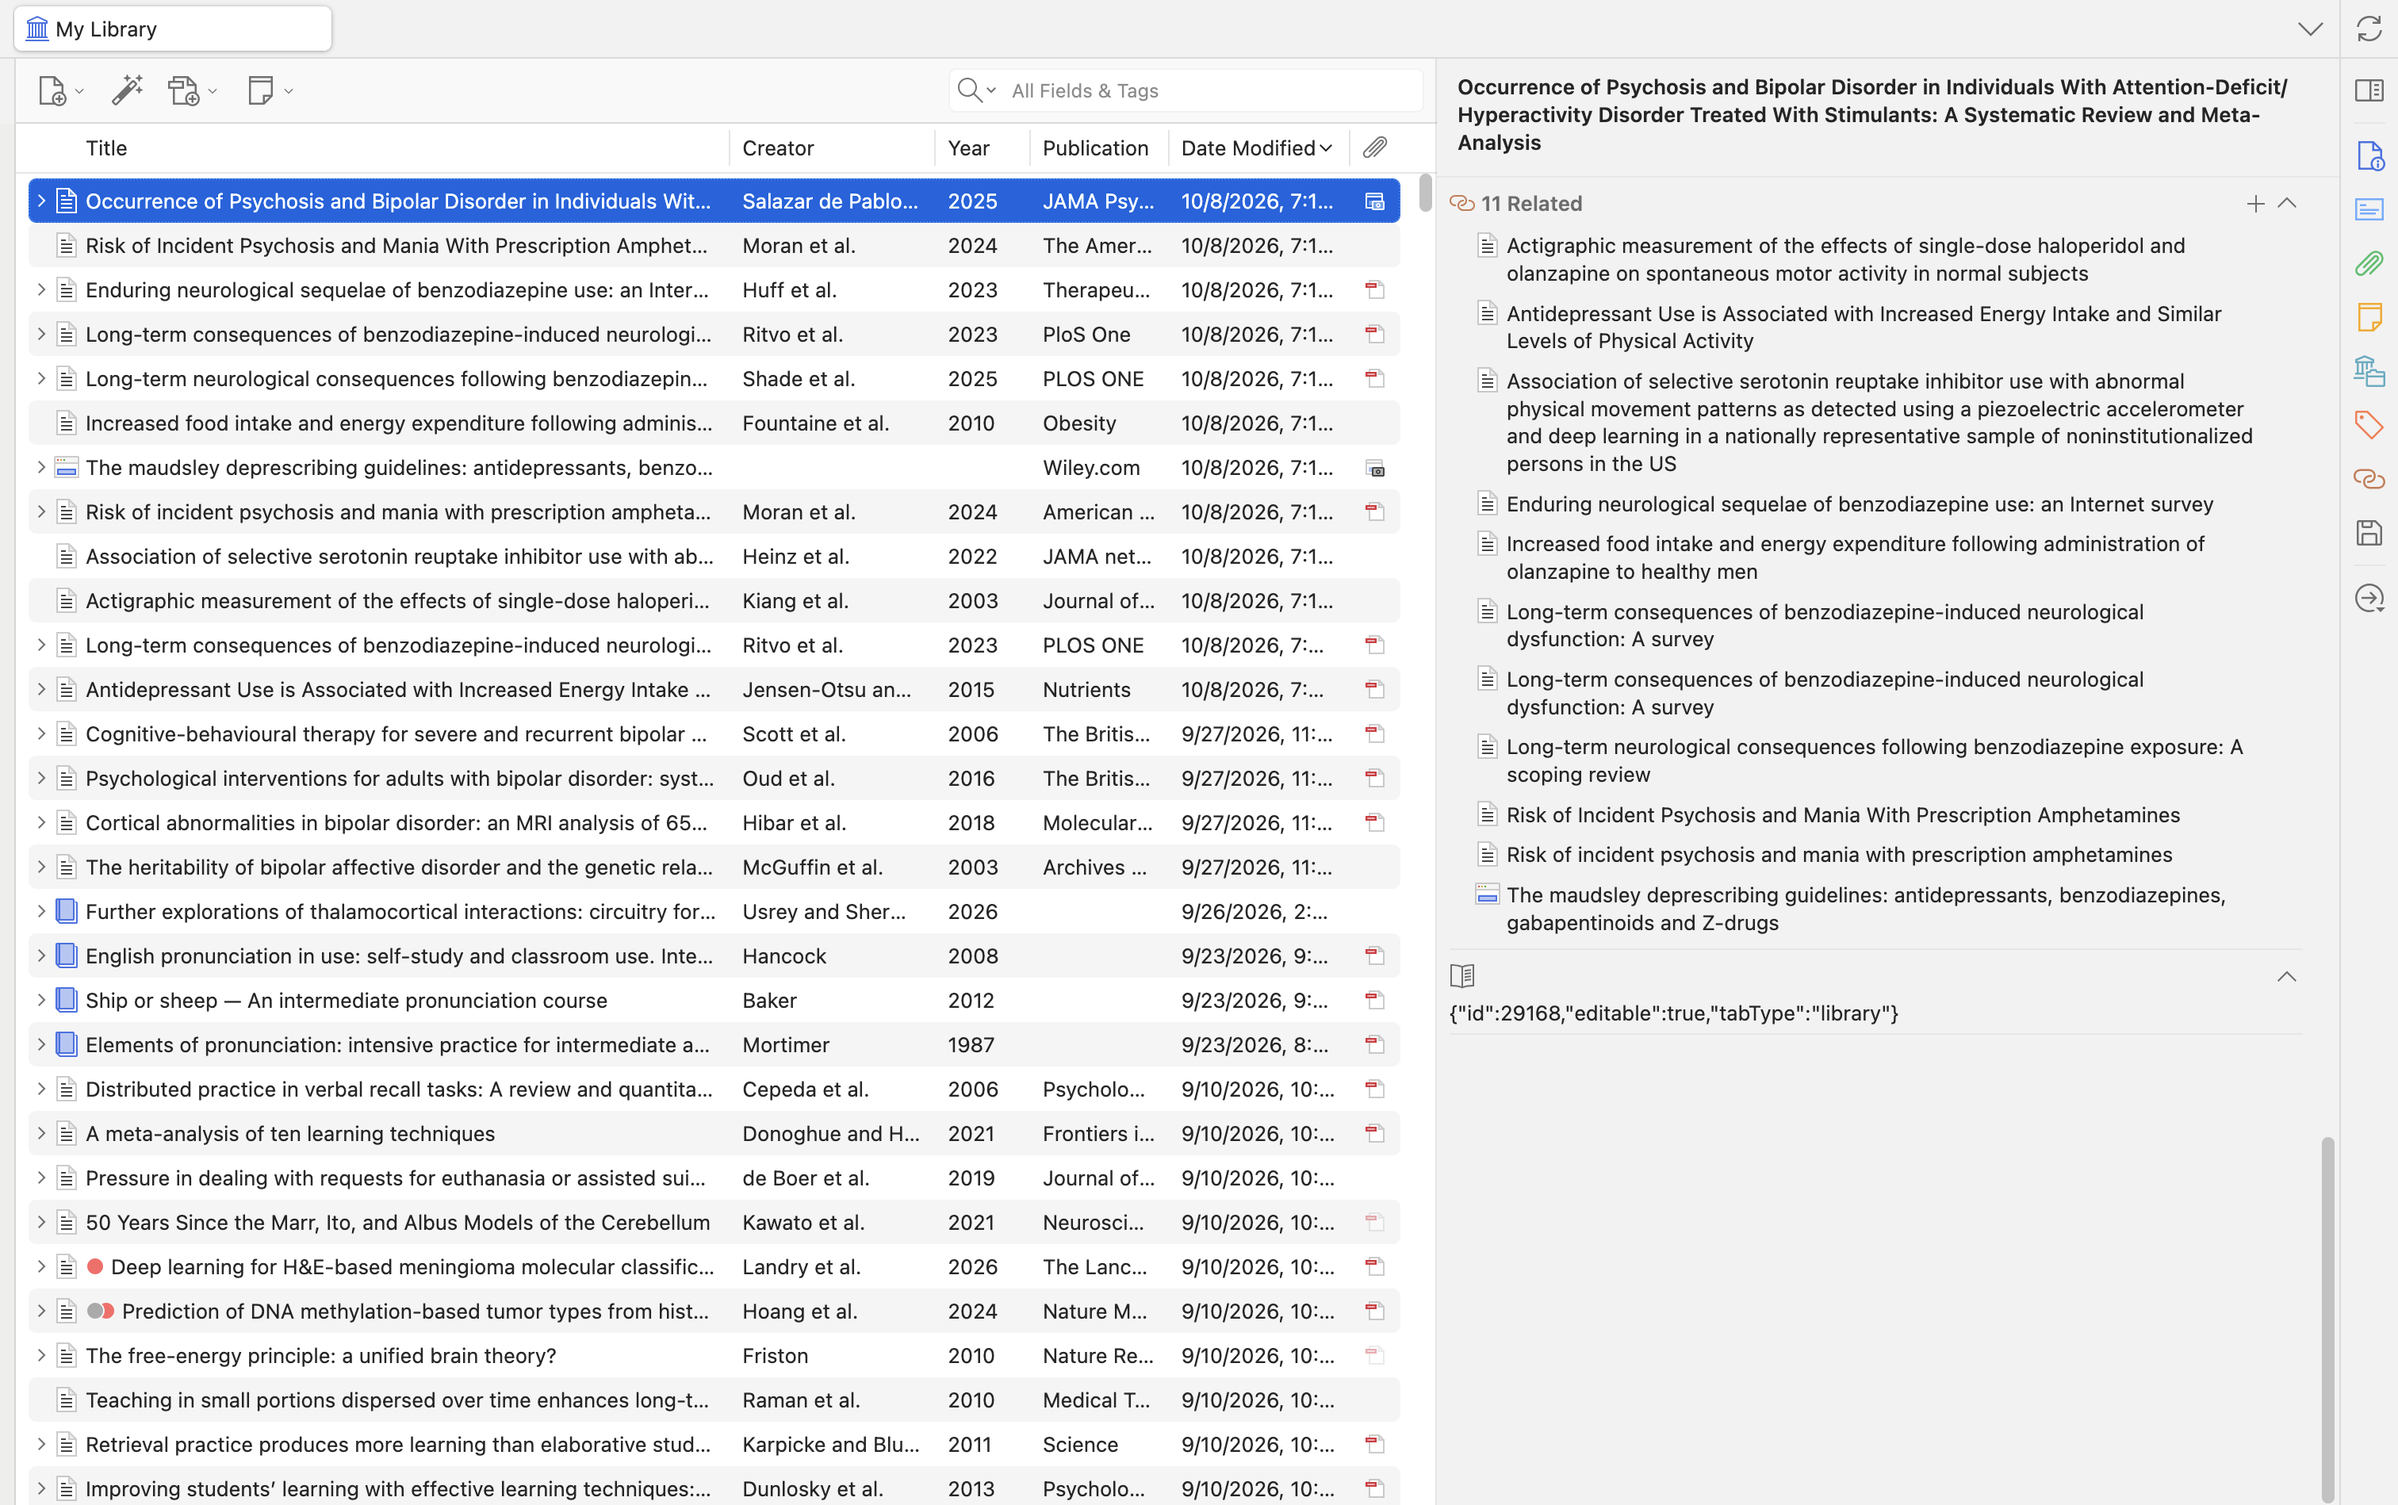
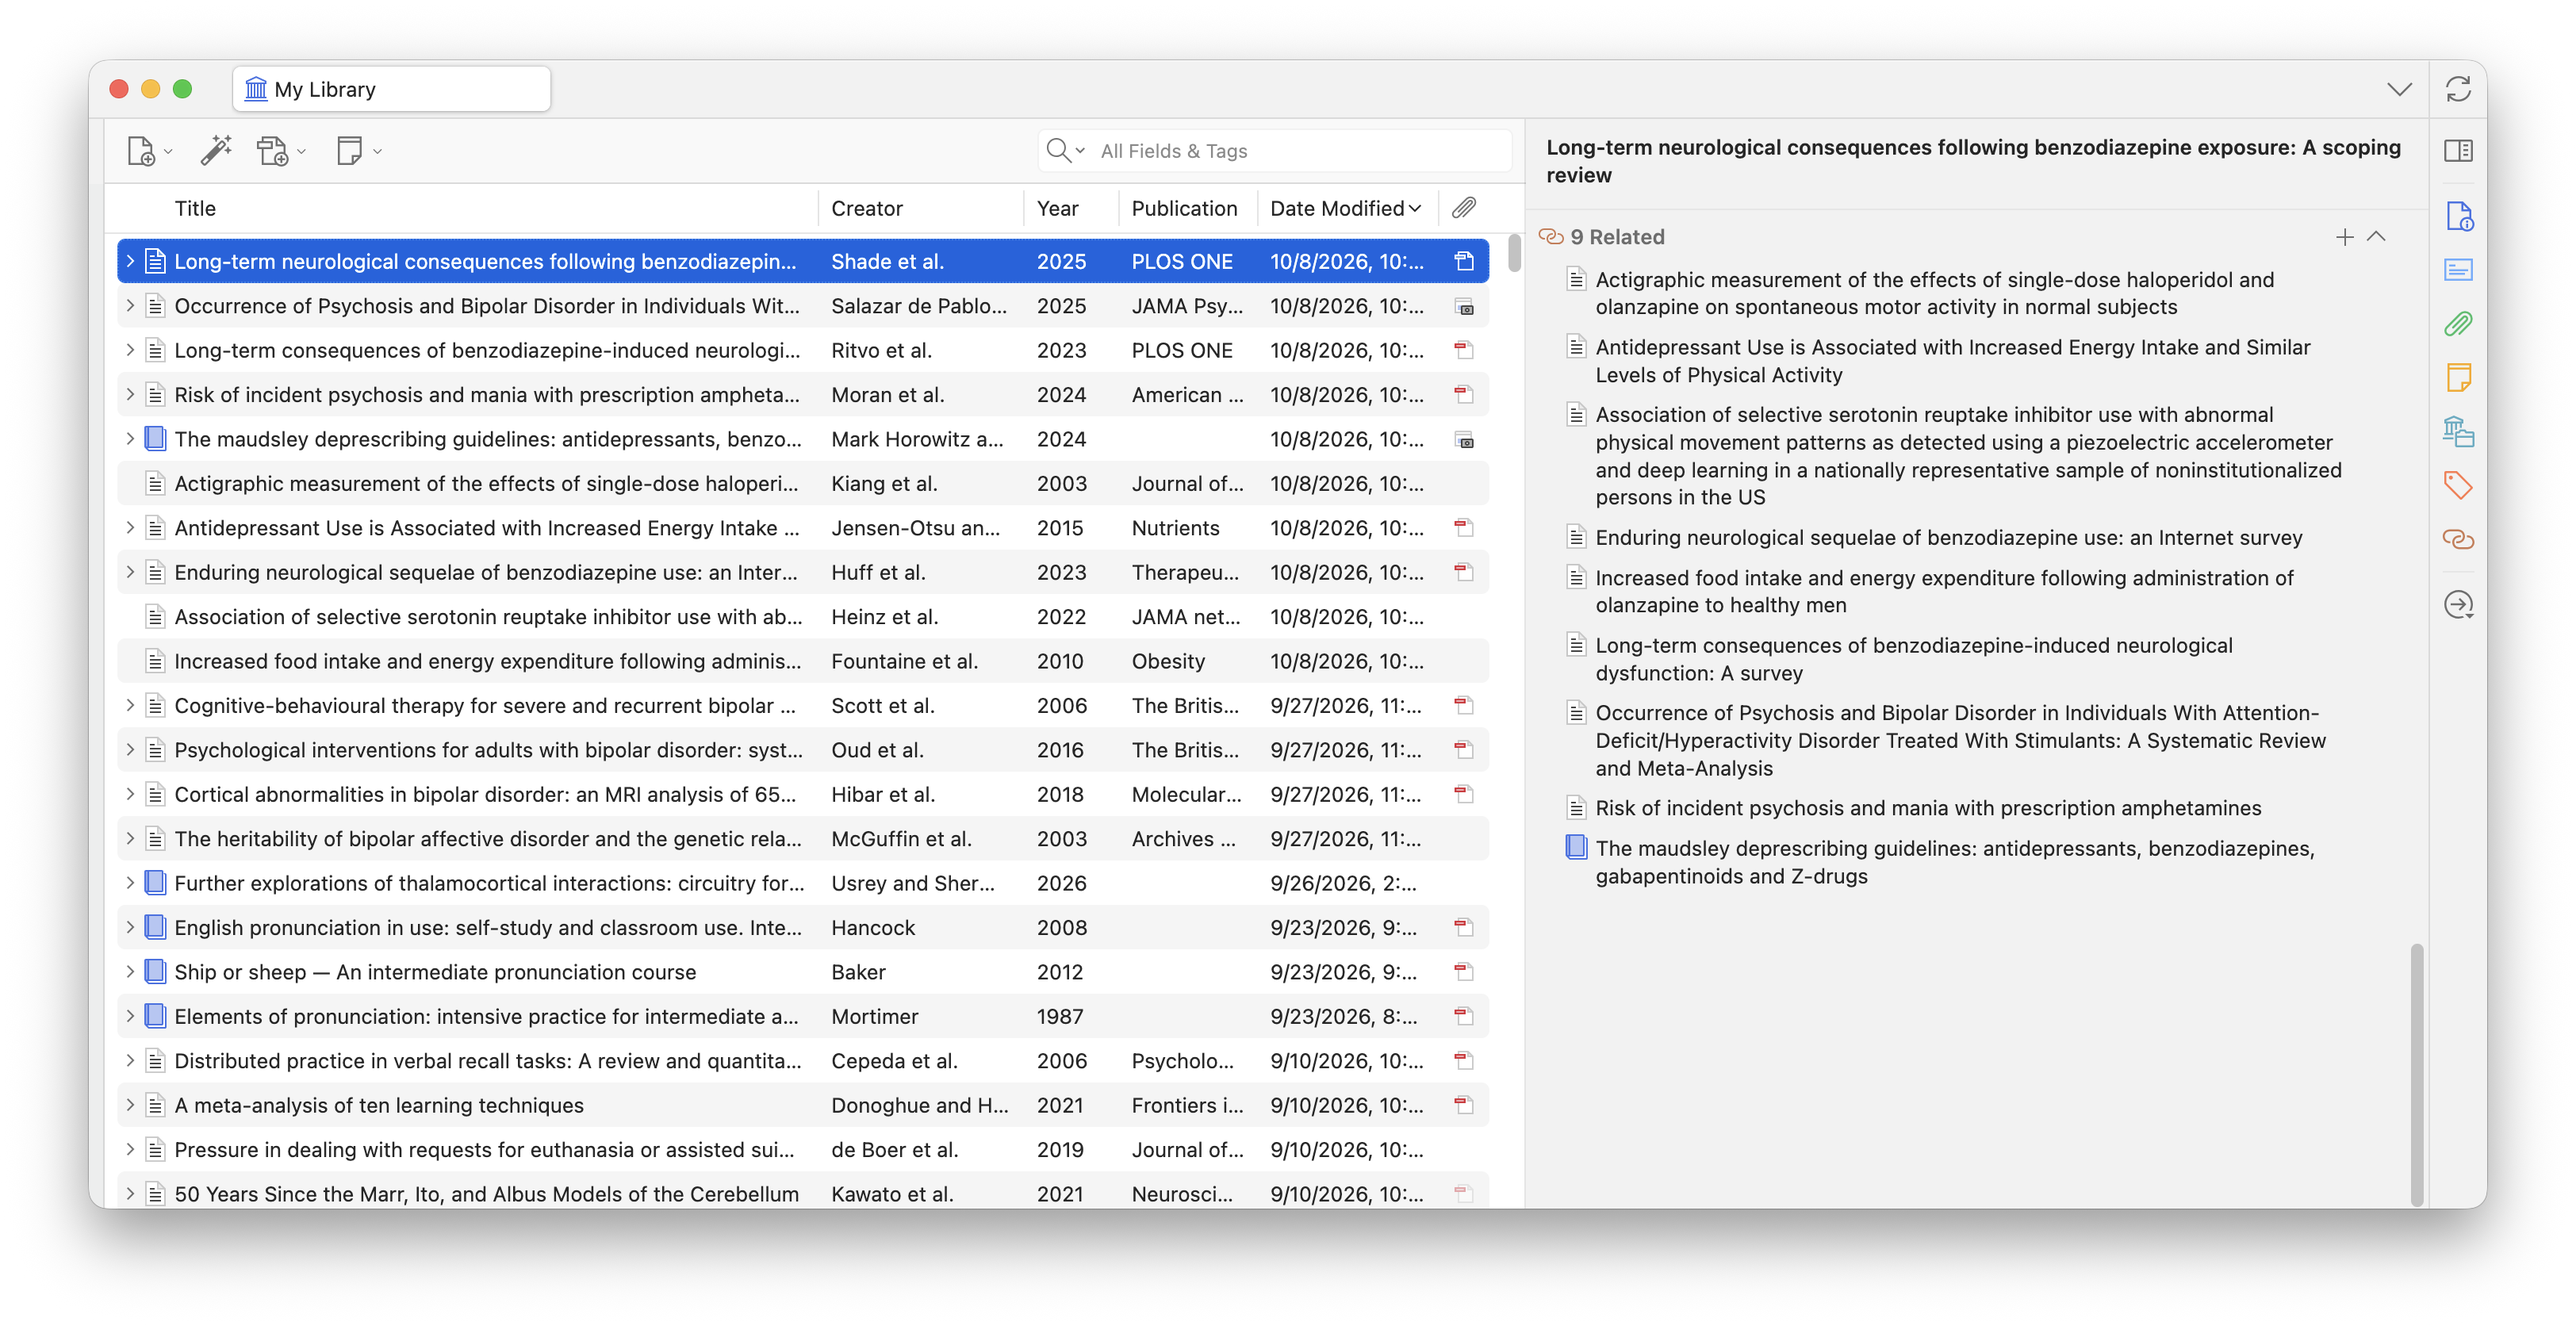
update images

Changed region(s): [[0.0, 0.0, 0.9947, 1.0], [0.4352, 0.0311, 0.4663, 0.0622]]

diff --git a/README.md b/README.md
@@ -4,40 +4,46 @@
 [![Zotero 7 / 8 / 9 Ready](https://img.shields.io/badge/Zotero-7%20%7C%208%20%7C%209-green.svg)](https://www.zotero.org/)
 [![License: AGPL-3.0](https://img.shields.io/badge/License-AGPL%203.0-blue.svg)](LICENSE)
 
-A lightweight Zotero plugin that cross-relates all selected items to each other in one click.
+A lightweight Zotero plugin that allows you to cross-relate or unrelate all selected items in one click.
 
 ---
 
 ## 📸 Overview
 
-
-![Demo Screenshot1](assets/right_click.png) 
-![Demo Screenshot2](assets/related.png) 
-
+<p align="center">
+  <img src="assets/right-click-relate.png" alt="Context Menu" width="80%">
+</p>
+<p align="center">
+  <img src="assets/related.png" alt="Mutual Links Established" width="80%">
+</p>
+<p align="center">
+  <img src="assets/right-click-unrelate.png" alt="Context Menu" width="80%">
+</p>
 
 ---
 
 ## 💡 The Problem & The Solution
 
-- **The Problem**: In native Zotero, relations are mutual between two items, but they are not transitive. If you want to link 5 related papers together, you have to manually open the "Related" tab and pick links **10 different times**.
-- **The Solution**: This plugin introduces an all-to-all cross-relation command. Select any number of items, right-click, and let the plugin link them all together instantly ($N \times (N-1)$ clique).
+- **The Problem**: In native Zotero, relations are mutual between two items, but they are not transitive. If you want to link 5 related papers together, you have to manually open the "Related" tab and select references **10 different times**.
+- **The Solution**: This plugin provides batch all-to-all cross-relation commands. Select any number of items, right-click, and instantly establish or remove relations among them in a single operation ($N \times (N-1)$ clique).
 
 ---
 
 ## ✨ Features
 
-- **Batch Clique Linking**: Cross-links all highlighted items so every item in the selection points to every other selected item.
-- **Context-Aware Menu**: The "Relate Selected Items to Each Other" option dynamically appears in the context menu only when 2 or more regular items are selected.
-- **Safe & Fast Database Operations**: Built on native transactional database calls (`executeTransaction`) ensuring data integrity.
-- **Smart Filtering**: Automatically filters out attachments and standalone notes to prevent erroneous relations.
+- **Batch Clique Linking**: Cross-relate all highlighted items so every item in the selection points to every other selected item.
+- **Batch Unlinking (Unrelate)**: Remove relations exclusively between the selected items without affecting links to other unselected references.
+- **Context-Aware Menu**: Menu items dynamically appear only when 2 or more regular items are selected.
+- **Safe & Fast Database Operations**: Built on native Zotero database transactions, eliminating lock contention and ensuring immediate, persistent synchronization.
+- **Smart Filtering**: Automatically ignores attachments and standalone notes to keep relations clean.
 
 ---
 
 ## 📦 Installation
 
 1. Go to the [**Latest Release**](https://github.com/<ユーザー名>/zotero-relate-selected-items/releases/latest) page.
-2. Download the `.xpi` file (e.g., `zotero-relate-selected-items-0.1.0.xpi`).
-3. In Zotero, navigate to **Tools** → **Add-ons** (or **Plugins**).
+2. Download the `.xpi` file (e.g., `zotero-relate-selected-items-1.0.3.xpi`).
+3. In Zotero, navigate to **Tools** → **Plugins** (or **Add-ons**).
 4. Click the gear icon (⚙) in the top-right corner and select **"Install Add-on From File..."**.
 5. Select the downloaded `.xpi` file and restart Zotero if prompted.
 
@@ -45,10 +51,17 @@ A lightweight Zotero plugin that cross-relates all selected items to each other 
 
 ## 🚀 How to Use
 
-1. Hold `Ctrl` (or `Cmd` on macOS) / `Shift` and select **two or more items** in your Zotero library.
+### Relate Items:
+1. Hold `Ctrl` (or `Cmd` on macOS) / `Shift` and select **two or more regular items** in your Zotero library.
 2. **Right-click** on the selected items.
 3. Click **"Relate Selected Items to Each Other"**.
-4. Check the **Related** tab on any of the selected items to see all links established.
+4. Check the **Related** tab on any of the selected items to see all mutual links established.
+
+### Unrelate Items:
+1. Select **two or more items** that currently share relations.
+2. **Right-click** on the selection.
+3. Click **"Unrelate Selected Items from Each Other"**.
+4. Relations between the selected items will be removed, while all other links to external references remain intact.
 
 ---
 
@@ -58,7 +71,7 @@ Built using [zotero-plugin-template](https://github.com/windingwind/zotero-plugi
 
 ```bash
 # Clone the repository
-git clone [https://github.com/](https://github.com/)<ユーザー名>/zotero-relate-selected-items.git
+git clone [https://github.com/kouichi-c-nakamura/zotero-relate-selected-items.git](https://github.com/kouichi-c-nakamura/zotero-relate-selected-items.git)
 cd zotero-relate-selected-items
 
 # Install dependencies
@@ -66,3 +79,13 @@ npm install
 
 # Build the .xpi package
 npm run build
+
+```
+
+---
+
+## 📄 License
+
+This project is licensed under the GNU Affero General Public License v3.0 (AGPL-3.0).
+
+
